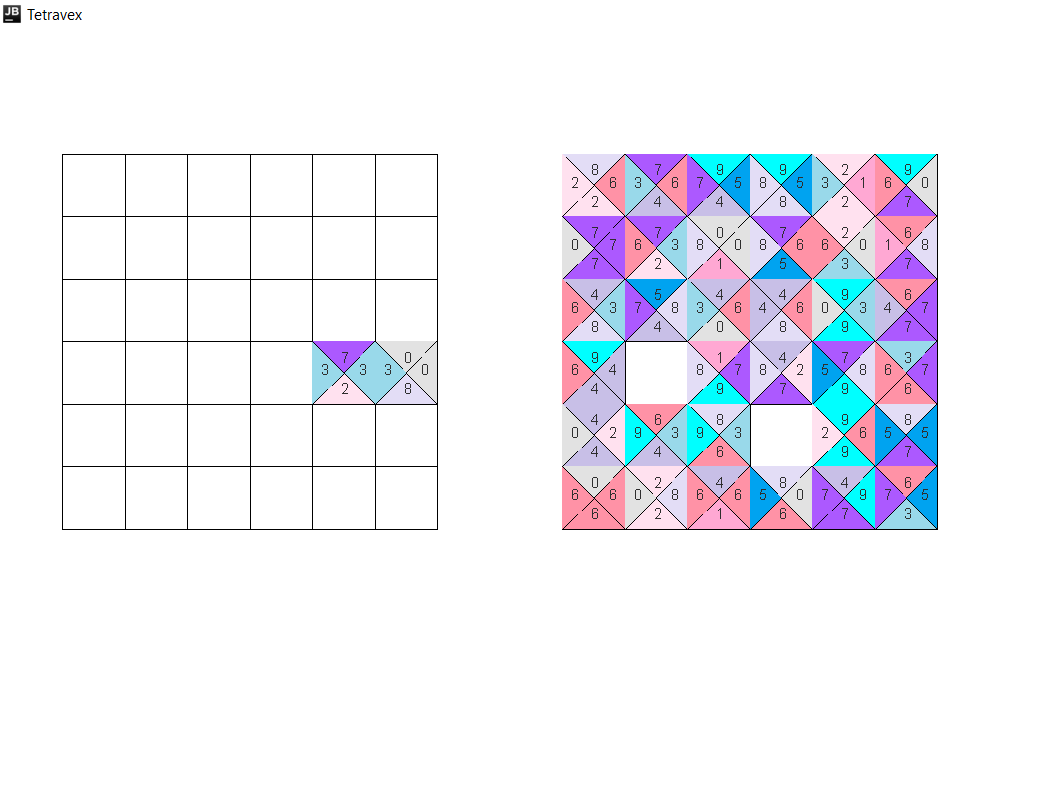
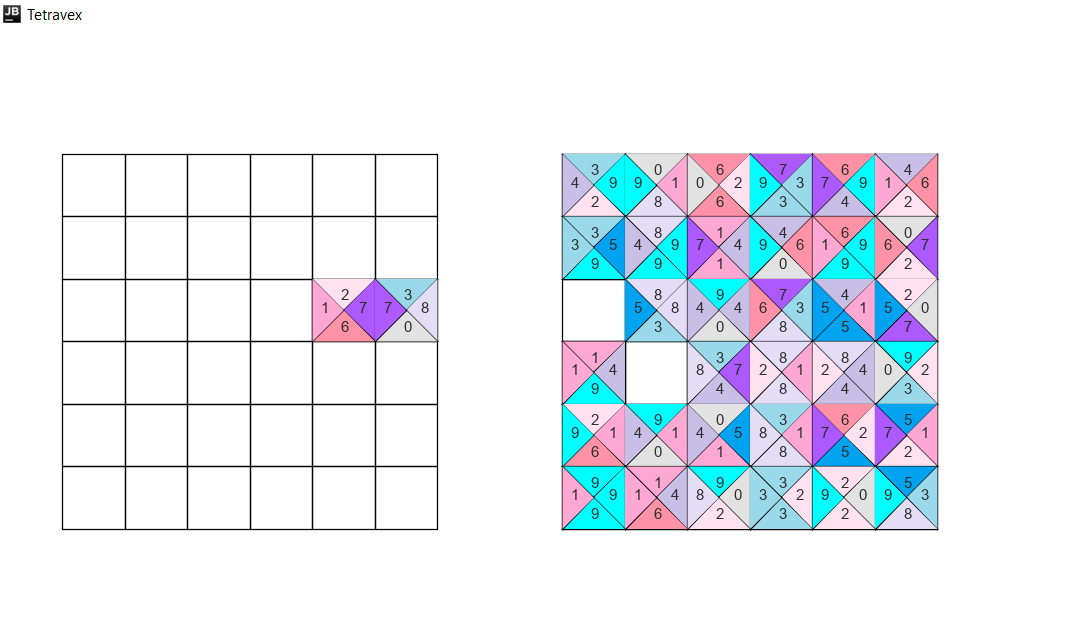
Changed graphics to 2D.

diff --git a/src/TetravexGame/GraphicTetravex.java b/src/TetravexGame/GraphicTetravex.java
@@ -50,11 +50,12 @@ public class GraphicTetravex extends JPanel {
 
     /**
      * Calls the super paint component method. Calls the paint board and paint alive methods in order
-     * to paint the bricks on the boards, whether they are static or moving.
+     * to paint the bricks on the boards, whether they are static or moving2.
      * @param g
      */
     public void paintComponent(Graphics g) {
-        super.paintComponent(g);
+        Graphics2D g2 = (Graphics2D) g;
+        super.paintComponent(g2);
         this.setBackground(Color.white);
 
         if (alive) {
@@ -80,11 +81,16 @@ public class GraphicTetravex extends JPanel {
      * @param g
      */
     public void win(Graphics g) {
+        Graphics2D g2 = (Graphics2D) g;
 
-        g.setColor(new Color(231, 138, 176));
-        g.fill3DRect(800, 250, 200, 200, true);
-        g.setColor(Color.white);
-        g.drawString("YOU WON!!!", 870, 350);
+        g2.setRenderingHint(
+                RenderingHints.KEY_ANTIALIASING,
+                RenderingHints.VALUE_ANTIALIAS_ON);
+
+        g2.setColor(new Color(231, 138, 176));
+        g2.fill3DRect(800, 250, 200, 200, true);
+        g2.setColor(Color.white);
+        g2.drawString("YOU WON!!!", 870, 350);
     }
 
     /**
@@ -94,13 +100,18 @@ public class GraphicTetravex extends JPanel {
      * @param xLocOnBoard the x location of the left side of the board.
      */
     private void paintBoard(Board board, Graphics g, int xLocOnBoard) {
+        Graphics2D g2 = (Graphics2D) g;
 
-        g.setColor(Color.BLACK);
+        g2.setRenderingHint(
+                RenderingHints.KEY_ANTIALIASING,
+                RenderingHints.VALUE_ANTIALIAS_ON);
+
+        g2.setColor(Color.BLACK);
 
         //The lines and border
         for (int i = 0; i < board.getSize(); i++) {
             for (int j = 0; j < board.getSize(); j++) {
-                g.drawRect(xLocOnBoard + (j * FIFTY), HUNDRED + (i * FIFTY), FIFTY, FIFTY);
+                g2.drawRect(xLocOnBoard + (j * FIFTY), HUNDRED + (i * FIFTY), FIFTY, FIFTY);
             }
         }
 
@@ -123,10 +134,10 @@ public class GraphicTetravex extends JPanel {
                     drawBorder(g, firstX, firstY, secondX, secondY, middleX, middleY);
 
 
-                    g.setColor(chooseColor(board.getBrick(i, j).getUp()));
-                    g.fillPolygon(xPoints1, yPoints1, 3);
-                    g.setColor(new Color(46, 46, 46));
-                    g.drawString(Integer.toString(board.getBrick(i, j).getUp()), middleX - 2, ((middleY + firstY) / 2) + 5);
+                    g2.setColor(chooseColor(board.getBrick(i, j).getUp()));
+                    g2.fillPolygon(xPoints1, yPoints1, 3);
+                    g2.setColor(new Color(46, 46, 46));
+                    g2.drawString(Integer.toString(board.getBrick(i, j).getUp()), middleX - 2, ((middleY + firstY) / 2) + 5);
 
                     firstX = xLocOnBoard + FIFTY + (j * FIFTY);
                     firstY = HUNDRED + (i * FIFTY);
@@ -137,10 +148,10 @@ public class GraphicTetravex extends JPanel {
 
                     int xPoints2[] = {firstX, secondX, middleX};
                     int yPoints2[] = {firstY, secondY, middleY};
-                    g.setColor(chooseColor(board.getBrick(i, j).getRight()));
-                    g.fillPolygon(xPoints2, yPoints2, 3);
-                    g.setColor(new Color(46, 46, 46));
-                    g.drawString(Integer.toString(board.getBrick(i, j).getRight()), (middleX + firstX) / 2, middleY + 2);
+                    g2.setColor(chooseColor(board.getBrick(i, j).getRight()));
+                    g2.fillPolygon(xPoints2, yPoints2, 3);
+                    g2.setColor(new Color(46, 46, 46));
+                    g2.drawString(Integer.toString(board.getBrick(i, j).getRight()), (middleX + firstX) / 2, middleY + 2);
 
                     firstX = xLocOnBoard + FIFTY + (j * FIFTY);
                     firstY = HUNDREDFIFTY + (i * FIFTY);
@@ -151,10 +162,10 @@ public class GraphicTetravex extends JPanel {
 
                     int xPoints3[] = {firstX, secondX, middleX};
                     int yPoints3[] = {firstY, secondY, middleY};
-                    g.setColor(chooseColor(board.getBrick(i, j).getDown()));
-                    g.fillPolygon(xPoints3, yPoints3, 3);
-                    g.setColor(new Color(46, 46, 46));
-                    g.drawString(Integer.toString(board.getBrick(i, j).getDown()), middleX - 2, ((middleY + firstY) / 2) + 5);
+                    g2.setColor(chooseColor(board.getBrick(i, j).getDown()));
+                    g2.fillPolygon(xPoints3, yPoints3, 3);
+                    g2.setColor(new Color(46, 46, 46));
+                    g2.drawString(Integer.toString(board.getBrick(i, j).getDown()), middleX - 2, ((middleY + firstY) / 2) + 5);
 
                     firstX = xLocOnBoard + (j * FIFTY);
                     firstY = HUNDREDFIFTY + (i * FIFTY);
@@ -165,10 +176,10 @@ public class GraphicTetravex extends JPanel {
 
                     int xPoints4[] = {firstX, secondX, middleX};
                     int yPoints4[] = {firstY, secondY, middleY};
-                    g.setColor(chooseColor(board.getBrick(i, j).getLeft()));
-                    g.fillPolygon(xPoints4, yPoints4, 3);
-                    g.setColor(new Color(46, 46, 46));
-                    g.drawString(Integer.toString(board.getBrick(i, j).getLeft()), ((middleX + firstX) / 2) - 5, middleY + 2);
+                    g2.setColor(chooseColor(board.getBrick(i, j).getLeft()));
+                    g2.fillPolygon(xPoints4, yPoints4, 3);
+                    g2.setColor(new Color(46, 46, 46));
+                    g2.drawString(Integer.toString(board.getBrick(i, j).getLeft()), ((middleX + firstX) / 2) - 5, middleY + 2);
 
                 }
             }
@@ -188,20 +199,33 @@ public class GraphicTetravex extends JPanel {
      * @param mY third y
      */
     private void drawBorder(Graphics g, int fX, int fY, int sX, int sY, int mX, int mY) {
-        g.setColor(Color.black);
-        g.drawLine(fX, fY, sX, sY);
-        g.drawLine(sX, sY, mX, mY);
-        g.drawLine(mX, mY, fX, fY);
+        Graphics2D g2 = (Graphics2D) g;
+        g2.setRenderingHint(
+                RenderingHints.KEY_ANTIALIASING,
+                RenderingHints.VALUE_ANTIALIAS_ON);
+
+        g2.setColor(Color.black);
+
+
+
+        g2.drawLine(fX, fY, sX, sY);
+        g2.drawLine(sX, sY, mX, mY);
+        g2.drawLine(mX, mY, fX, fY);
     }
 
     /**
-     * A helper function to the paint component method. Paints the bricks when they are moving.
+     * A helper function to the paint component method. Paints the bricks when they are moving2.
      * @param g
      */
     private void paintAlive(Graphics g) {
+        Graphics2D g2 = (Graphics2D) g;
+        g2.setRenderingHint(
+                RenderingHints.KEY_ANTIALIASING,
+                RenderingHints.VALUE_ANTIALIAS_ON);
+
         if (currBrick.getBlank()) {
-            g.fillRect(this.currX, this.currY,50, 50);
-            g.setColor(Color.MAGENTA);
+            g2.fillRect(this.currX, this.currY,50, 50);
+            g2.setColor(Color.MAGENTA);
             return;
         }
 
@@ -218,10 +242,10 @@ public class GraphicTetravex extends JPanel {
         int xPoints1[] = {firstX, secondX, middleX};
         int yPoints1[] = {firstY, secondY, middleY};
 
-        g.setColor(chooseColor(currBrick.getUp()));
-        g.fillPolygon(xPoints1, yPoints1, 3);
-        g.setColor(new Color(46, 46, 46));
-        g.drawString(Integer.toString(currBrick.getUp()), middleX - 2, ((middleY + firstY) / 2) + 5);
+        g2.setColor(chooseColor(currBrick.getUp()));
+        g2.fillPolygon(xPoints1, yPoints1, 3);
+        g2.setColor(new Color(46, 46, 46));
+        g2.drawString(Integer.toString(currBrick.getUp()), middleX - 2, ((middleY + firstY) / 2) + 5);
 
         firstX = this.currX + 50;
         firstY = this.currY;
@@ -232,10 +256,10 @@ public class GraphicTetravex extends JPanel {
 
         int xPoints2[] = {firstX, secondX, middleX};
         int yPoints2[] = {firstY, secondY, middleY};
-        g.setColor(chooseColor(currBrick.getRight()));
-        g.fillPolygon(xPoints2, yPoints2, 3);
-        g.setColor(new Color(46, 46, 46));
-        g.drawString(Integer.toString(currBrick.getRight()), (middleX + firstX) / 2, middleY + 2);
+        g2.setColor(chooseColor(currBrick.getRight()));
+        g2.fillPolygon(xPoints2, yPoints2, 3);
+        g2.setColor(new Color(46, 46, 46));
+        g2.drawString(Integer.toString(currBrick.getRight()), (middleX + firstX) / 2, middleY + 2);
 
         firstX = this.currX + 50;
         firstY = this.currY + 50;
@@ -246,10 +270,10 @@ public class GraphicTetravex extends JPanel {
 
         int xPoints3[] = {firstX, secondX, middleX};
         int yPoints3[] = {firstY, secondY, middleY};
-        g.setColor(chooseColor(currBrick.getDown()));
-        g.fillPolygon(xPoints3, yPoints3, 3);
-        g.setColor(new Color(46, 46, 46));
-        g.drawString(Integer.toString(currBrick.getDown()), middleX - 2, ((middleY + firstY) / 2) + 5);
+        g2.setColor(chooseColor(currBrick.getDown()));
+        g2.fillPolygon(xPoints3, yPoints3, 3);
+        g2.setColor(new Color(46, 46, 46));
+        g2.drawString(Integer.toString(currBrick.getDown()), middleX - 2, ((middleY + firstY) / 2) + 5);
 
         firstX = this.currX;
         firstY = this.currY + 50;
@@ -260,10 +284,10 @@ public class GraphicTetravex extends JPanel {
 
         int xPoints4[] = {firstX, secondX, middleX};
         int yPoints4[] = {firstY, secondY, middleY};
-        g.setColor(chooseColor(currBrick.getLeft()));
-        g.fillPolygon(xPoints4, yPoints4, 3);
-        g.setColor(new Color(46, 46, 46));
-        g.drawString(Integer.toString(currBrick.getLeft()), ((middleX + firstX) / 2) - 5, middleY + 2);
+        g2.setColor(chooseColor(currBrick.getLeft()));
+        g2.fillPolygon(xPoints4, yPoints4, 3);
+        g2.setColor(new Color(46, 46, 46));
+        g2.drawString(Integer.toString(currBrick.getLeft()), ((middleX + firstX) / 2) - 5, middleY + 2);
 
 
     }

diff --git a/src/TetravexGame/GraphicOpening.java b/src/TetravexGame/GraphicOpening.java
@@ -17,24 +17,31 @@ public class GraphicOpening extends JPanel {
      * @param g
      */
     public void paintComponent(Graphics g) {
-        super.paintComponent(g);
+        Graphics2D g2 = (Graphics2D) g;
+        super.paintComponent(g2);
         this.setBackground(Color.white);
 
-//        g.setColor(new Color(255, 146, 166));
-//        g.fill3DRect(250, 25, 50, 50, true);
+//        g2.setColor(new Color(255, 146, 166));
+//        g2.fill3DRect(250, 25, 50, 50, true);
 
-        g.setColor(new Color(255, 146, 166));
-        g.fill3DRect(100, 100, 50, 50, true);
-        g.fill3DRect(200, 100, 50, 50, true);
-        g.fill3DRect(300, 100, 50, 50, true);
-        g.fill3DRect(400, 100, 50, 50, true);
-        g.fill3DRect(500, 100, 50, 50, true);
 
-        g.setColor(Color.white);
-        g.drawString("2", 125, 125);
-        g.drawString("3", 225, 125);
-        g.drawString("4", 325, 125);
-        g.drawString("5", 425, 125);
-        g.drawString("6", 525, 125);
+
+        g2.setRenderingHint(
+                RenderingHints.KEY_ANTIALIASING,
+                RenderingHints.VALUE_ANTIALIAS_ON);
+
+        g2.setColor(new Color(255, 146, 166));
+        g2.fill3DRect(100, 100, 50, 50, true);
+        g2.fill3DRect(200, 100, 50, 50, true);
+        g2.fill3DRect(300, 100, 50, 50, true);
+        g2.fill3DRect(400, 100, 50, 50, true);
+        g2.fill3DRect(500, 100, 50, 50, true);
+
+        g2.setColor(Color.white);
+        g2.drawString("2", 125, 125);
+        g2.drawString("3", 225, 125);
+        g2.drawString("4", 325, 125);
+        g2.drawString("5", 425, 125);
+        g2.drawString("6", 525, 125);
     }
 }

diff --git a/src/Main/Main.java b/src/Main/Main.java
@@ -4,6 +4,7 @@ import TetravexGame.Gui;
 import TetravexGame.OpeningScreen;
 
 import javax.swing.*;
+import java.awt.*;
 
 public class Main {
 

diff --git a/README.md b/README.md
@@ -1,5 +1,5 @@
 # TetravexGame
-![TetraexPicture](https://github.com/ShiriTA/Tetravex/blob/main/preview/images/TetravexPicture.png?raw=true)
+![TetraexPicture](https://github.com/ShiriTA/Tetravex/blob/main/preview/images/Tetravex.png?raw=true)
 
 
 A puzzle game which its main goal is to fill the board. When you fill the board, you win.
